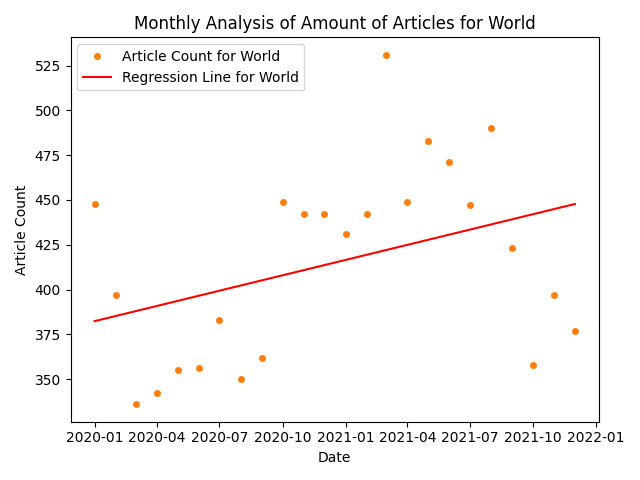
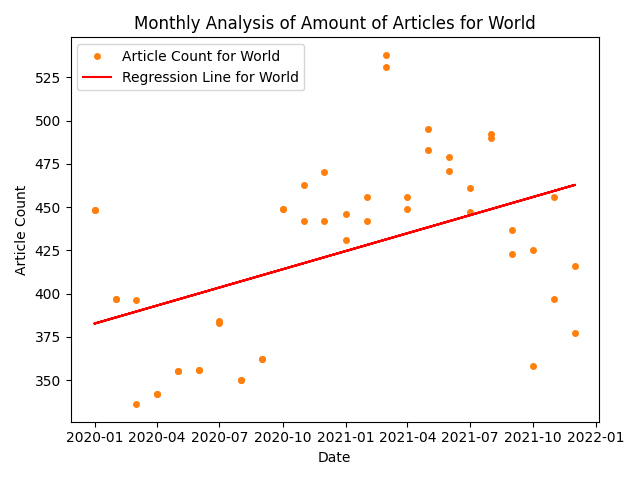
Updating articlecount

diff --git a/Analysing/Articlecount/Graph Months.py b/Analysing/Articlecount/Graph Months.py
@@ -8,9 +8,9 @@ from sklearn.linear_model import LinearRegression
 connection = sqlite3.connect("Analysing/Articlecount/articlecount.db")
 cursor = connection.cursor()
 
-colors = ['#1f77b4', '#ff7f0e']
-colors_reg = ['blue', 'red']
-topics = ["Politics", "World"]
+colors = ['#1f77b4', '#ff7f0e', "green"]
+colors_reg = ['blue', 'red', "black"]
+topics = ["Politics", "World", "Opinion"]
 for i, topic in enumerate(topics):
     cursor.execute(f"SELECT * FROM monthly_totals WHERE topic_id = {i}")
     rows = cursor.fetchall()

diff --git a/Analysing/Articlecount/Get_Data.py b/Analysing/Articlecount/Get_Data.py
@@ -4,7 +4,7 @@ import sqlite3
 data_root = "data/articles"
 start_year = 2020
 amount_years = 2
-topics = ["politics", "world"]
+topics = ["politics", "world", "opinion"]
 
 conn = sqlite3.connect("Analysing/Articlecount/articlecount.db")
 cursor = conn.cursor()
